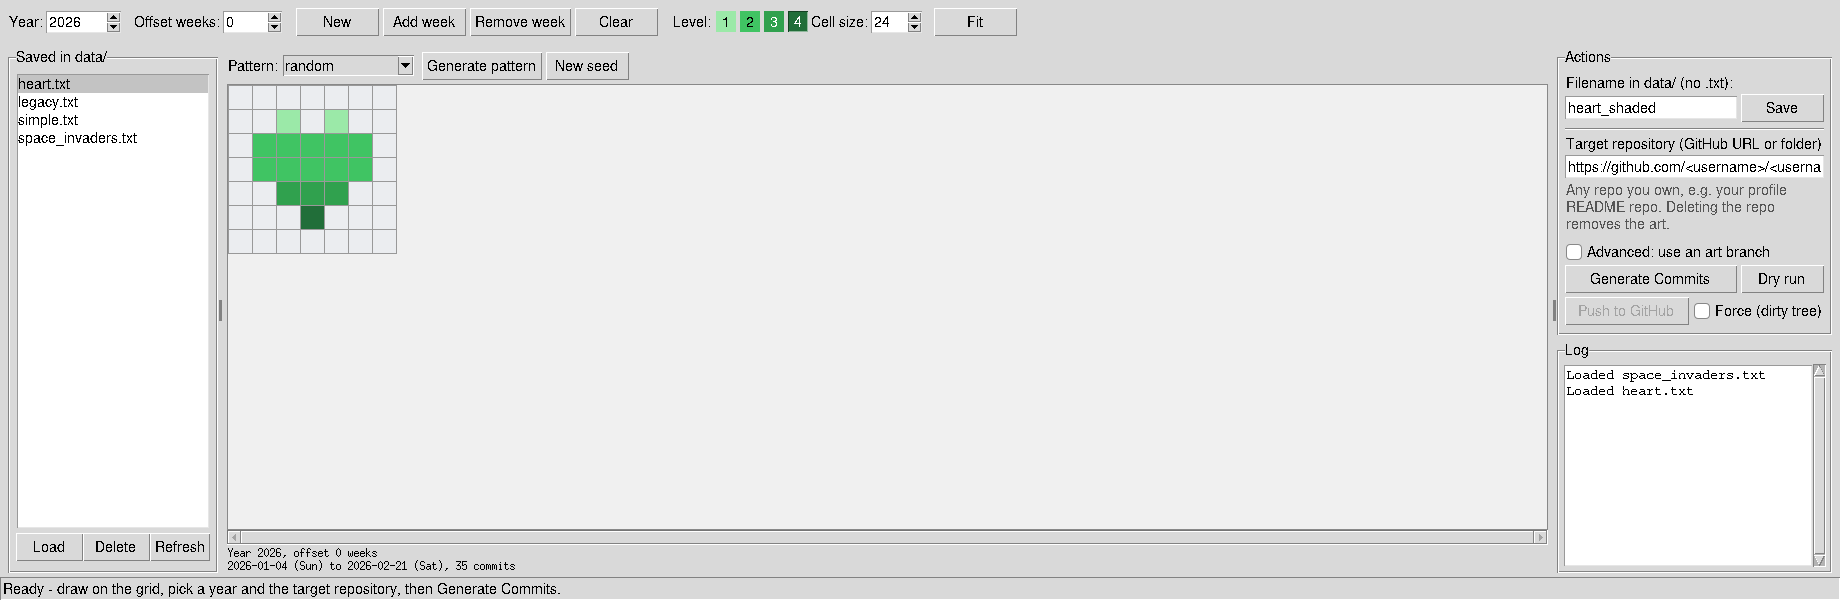
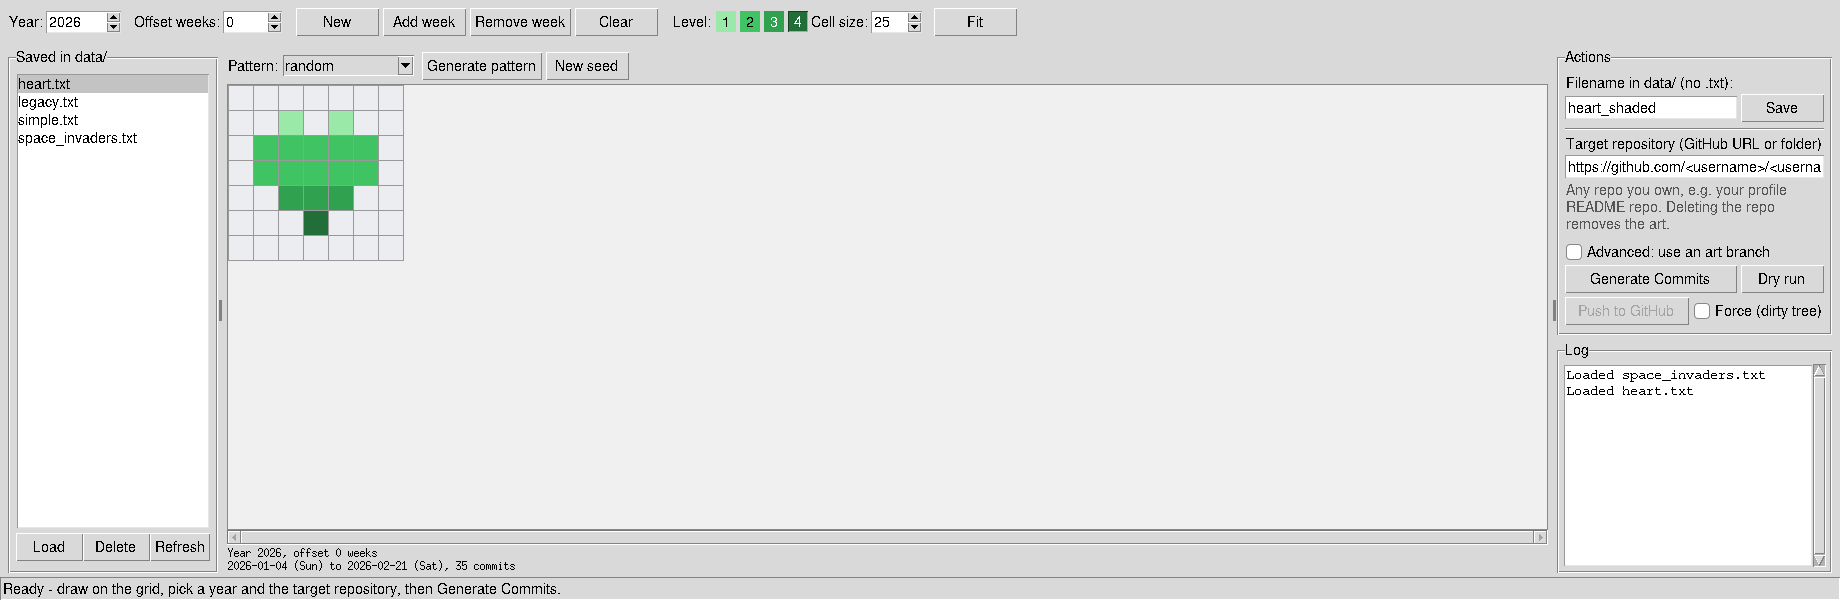
Default the GUI grid to 52 weeks (#34)
New drawings and the editor's first grid use MAX_WEEKS, and Fit sizes
cells for 52 weeks (or more if the offset requires it). Add week and
remove week are unchanged. The year still starts on the first Sunday.

Changed region(s): [[0.1239, 0.18, 0.2168, 0.45]]

diff --git a/tests/test_gui.py b/tests/test_gui.py
@@ -19,11 +19,11 @@ from github_pixel_artworks import gui
 from github_pixel_artworks.config import (
     ACTIONS_PANE_MIN_WIDTH,
     DAYS_PER_WEEK,
+    DEFAULT_COLUMNS,
     DRAWINGS_PANE_MIN_WIDTH,
     EDITOR_PANE_MIN_WIDTH,
     EMPTY_COLOR,
     GENERATE_BUTTON_TEXT,
-    GRID_YEAR_WEEKS,
     LEVEL_COLORS,
     MAX_CELL_SIZE,
     MAX_WEEKS,
@@ -153,14 +153,31 @@ class TestPainting:
         assert app.grid[2][2] == 4
 
     def test_columns_can_be_added_and_removed_within_limits(self, app: gui.PixelArtGUI) -> None:
+        assert app.columns == DEFAULT_COLUMNS
         paint(app, 2, 0, 9)
 
         app._resize_grid(app.columns + 1)
-        assert app.columns == 11
-        assert app.grid[0][9:] == [2, 0]
+        assert app.columns == MAX_WEEKS
+        assert app.grid[0][9] == 2
+
+        app._resize_grid(app.columns - 1)
+        assert app.columns == MAX_WEEKS - 1
+        assert app.grid[0][9] == 2
+
+        app._resize_grid(app.columns + 1)
+        assert app.columns == MAX_WEEKS
 
         app._resize_grid(1)
         assert app.columns == gui.MIN_COLUMNS
+
+    def test_new_starts_a_year_of_weeks(self, app: gui.PixelArtGUI) -> None:
+        app._resize_grid(gui.MIN_COLUMNS)
+        assert app.columns == gui.MIN_COLUMNS
+
+        app._new_grid()
+
+        assert app.columns == DEFAULT_COLUMNS
+        assert DEFAULT_COLUMNS == MAX_WEEKS
 
 
 class TestDrawingFiles:
@@ -339,7 +356,7 @@ class TestLayout:
         size = coords[2] - coords[0]
         assert size == coords[3] - coords[1]
         assert size == window.cell_size
-        weeks = max(GRID_YEAR_WEEKS, MAX_WEEKS)
+        weeks = MAX_WEEKS
         assert MAX_WEEKS * size <= canvas_width
         assert abs(size - (canvas_width - 2) // weeks) <= 1
         assert DAYS_PER_WEEK * size < canvas_height
@@ -522,6 +539,7 @@ class TestPatternControls:
         assert app.grid != first
 
     def test_text_pattern_widens_the_grid_to_fit(self, app: gui.PixelArtGUI) -> None:
+        app._resize_grid(gui.MIN_COLUMNS)
         app.pattern_var.set(PATTERN_TEXT)
         app.pattern_text_var.set("SIMONE")
 

diff --git a/src/github_pixel_artworks/config.py b/src/github_pixel_artworks/config.py
@@ -437,25 +437,20 @@ CELL_SIZE = 24
 """Fallback cell size in pixels, used only before the canvas has a real width."""
 MIN_CELL_SIZE = 12
 MAX_CELL_SIZE = 80
-GRID_YEAR_WEEKS = 53
-"""Week columns the default Fit zoom tries to show: a typical GitHub year.
-
-Fit uses the larger of this and the current grid columns plus the week offset,
-so added weeks and a non-zero offset still stay on screen when there is room.
-"""
 GRID_BACKGROUND = "#f0f0f0"
 CELL_OUTLINE = "#999"
 CANVAS_BORDER = "#888"
 DARK_LEVEL_TEXT_FROM = 3
 """Level from which the picker button label is white instead of black."""
 
-DEFAULT_COLUMNS = 10
+DEFAULT_COLUMNS = MAX_WEEKS
+"""New drawings and the editor's first grid: one year of weeks."""
 MIN_COLUMNS = 3
 
 WINDOW_SIZE = (1840, 600)
 """Preferred first size: as wide as a 1920x1080 screen allows after the margin.
 
-A wider window makes Fit mode cells larger while a 53-week year still stays
+A wider window makes Fit mode cells larger while a 52-week year still stays
 on screen next to both side panes.
 """
 WINDOW_SCREEN_MARGIN = 80

diff --git a/src/github_pixel_artworks/gui.py b/src/github_pixel_artworks/gui.py
@@ -37,7 +37,6 @@ from .config import (
     EDITOR_PANE_MIN_WIDTH,
     GENERATE_BUTTON_TEXT,
     GRID_BACKGROUND,
-    GRID_YEAR_WEEKS,
     HINT_COLOR,
     HINT_PADDING,
     LEVEL_COLORS,
@@ -419,12 +418,12 @@ class PixelArtGUI:
             self._redraw()
 
     def _weeks_to_fit(self) -> int:
-        """Week columns Fit mode sizes the cells for: a year, or more if needed."""
+        """Week columns Fit mode sizes the cells for: MAX_WEEKS, or more if needed."""
         try:
             offset = int(self.offset_var.get())
         except tk.TclError, TypeError, ValueError:
             offset = 0
-        return max(GRID_YEAR_WEEKS, self.columns + max(0, offset))
+        return max(MAX_WEEKS, self.columns + max(0, offset))
 
     def _fit_cell_size(self) -> int:
         """Largest square cell that keeps every week column on the canvas."""

diff --git a/COVERAGE.md b/COVERAGE.md
@@ -4,11 +4,11 @@
 | src/github\_pixel\_artworks/art\_repo.py    |      123 |        1 |     99% |
 | src/github\_pixel\_artworks/artwork.py      |       58 |        0 |    100% |
 | src/github\_pixel\_artworks/cli.py          |      139 |        6 |     96% |
-| src/github\_pixel\_artworks/config.py       |      188 |        0 |    100% |
+| src/github\_pixel\_artworks/config.py       |      187 |        0 |    100% |
 | src/github\_pixel\_artworks/dates.py        |       15 |        0 |    100% |
 | src/github\_pixel\_artworks/github.py       |       95 |        0 |    100% |
-| src/github\_pixel\_artworks/gui.py          |      489 |       50 |     90% |
+| src/github\_pixel\_artworks/gui.py          |      489 |       47 |     90% |
 | src/github\_pixel\_artworks/identity.py     |       34 |        2 |     94% |
 | src/github\_pixel\_artworks/painter.py      |      216 |        8 |     96% |
 | src/github\_pixel\_artworks/patterns.py     |      430 |       23 |     95% |
-| **TOTAL**                                   | **1798** |   **92** | **95%** |
+| **TOTAL**                                   | **1797** |   **89** | **95%** |
